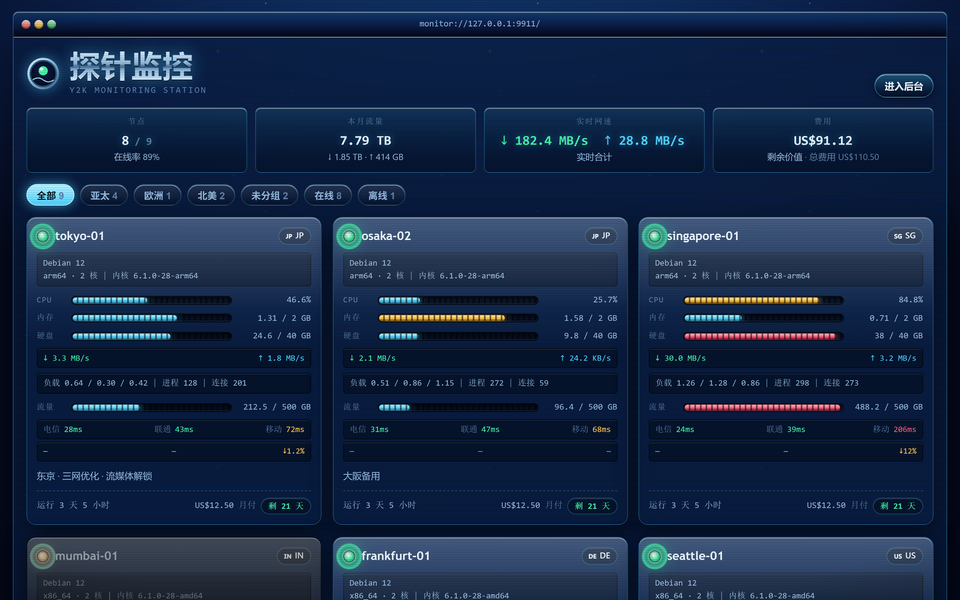
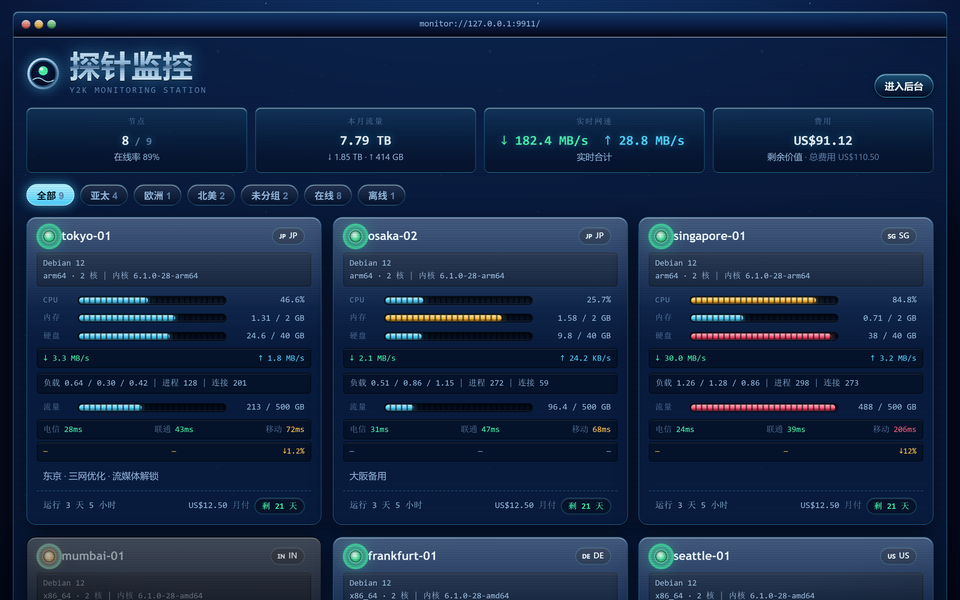
1.4.5：读数轨道改为随字体伸缩、卡片内统一两条竖线、修掉 NaN 读数
1) 平板下读数被截断

读数的轨道是写死的 92px。这个宽度按桌面字体算：--font-data 在 Windows 上是
Consolas（0.55em/字符），92px 装 15 个字符；平板上落到 SF Mono（0.6em），同样
92px 只装 13.9 个字符，于是桌面上刚好放得下的读数到平板上就少了尾巴。而真实
读数也比当初估计的长：内存以 MB 上报时是 "617.13 / 952.21 MB"——19 个字符。

- 轨道改用相对字体的单位：读数 15ch（ch 是一个字符在当前实际字体下的宽度，
  所以在任何等宽字体里都装 15 个字符），标签 3.6em（标签自己的 10px 下即
  36px）。网格列改为 max-content 配子元素上的显式宽度，单位解析发生在子元素
  自己的字体里。
- 读数加小数位阶梯（与 bytes() 同一套，按各自量级定小数位）：一对数字最长
  "1024 / 1024 MB" = 14 字符，15ch 在任何设备上都放得下。单位仍取自总量。

实测容量：桌面字体 rail 90.7px/6.05px = 15 字符；0.6em 等宽 rail 99px/6.60px
= 15 字符；0.6em 等宽 + 旧 92px = 13.9 字符（截断来源）。

2) 卡片内两条竖线

装在框里的行（↓/↑、负载、电信/联通/移动、丢包、系统信息）的文字被框的
padding 7 + border 1 内推 8px，没有框的行（CPU/内存/硬盘/流量、页眉、页脚）
贴着内容边缘，于是同一张卡出现两个左边界（46/54）与两个右边界。引入
--plate-inset 让无框行自带同样的内缩（.meter/.card-head/.card-foot/.remark）。
现在整张卡只有两条竖线：文字 54..343.7、框线 46..351.7。

3) 坏读数

disk_total = 0 的机器（无盘 NAT/容器）让 unitOf(0) 得到 -Infinity，
UNITS[-Infinity] 是 undefined，卡片打出 "NaN / NaN undefined"（19 字符，还
溢出轨道）；hub 不报 mem_used 时打出 "NaN / 256 GB"。现在总量不可用时退回
bytes() 写法（"0 B / 0 B"），单个数字缺失读作 "—"。

验证：用真实 hub 的 29 个节点复现并核对；5 个取最长形态的压测节点在
1400/1100/768 下截断数均为 0；规格行、丢包行、流量行、无溢出等既有不变量
复查无回归。

版本 1.4.5；preview.png 重新生成。

diff --git a/src/index.css b/src/index.css
@@ -28,11 +28,35 @@
      fixed rather than sized by their content: they are the two rails every bar
      is drawn between, so a reading that is four characters wide in one row and
      eighteen in the next must not move the rail. The reading is set in the data
-     font, so its width is the character count times a known advance -- fifteen
-     of them covers the longest figure the card writes ("500 / 1000 GB", and
-     "1310 / 500 GB" on a plan used past its quota). */
-  --meter-label: 36px;
-  --meter-val: 92px;
+     font, so its width is the character count times a known advance.
+
+     Both are expressed in the units of the text they hold, not in pixels,
+     because the pixel width of a character is the one thing the theme cannot
+     know: `--font-data` resolves to Consolas on Windows, Menlo on a Mac, SF Mono
+     on an iPhone or iPad and whatever the OEM ships on Android, and those
+     advances differ by more than ten percent. A 92px rail written for Consolas
+     holds fifteen characters; on a tablet, where SF Mono is a fifth wider, it
+     holds thirteen, and a reading that fits on a laptop came back from the
+     tablet with its unit cut off. `ch` is the advance of one character in
+     whatever font is actually being used, so the rail holds the same number of
+     characters everywhere -- which is what makes it a rail.
+
+     15ch is the widest a reading gets: a pair is at most four digits, a slash
+     and four more in the same unit (`1024 / 1024 MB`), which is fourteen
+     characters.
+
+     3.6em of the label's own 10px is 36px, the width the widest label needs
+     (不限量, three full-width characters plus the letter spacing). */
+  --meter-label: 3.6em;
+  --meter-val: 15ch;
+
+  /* How far a boxed row's text sits inside its box: the plate's own padding plus
+     its border. The unboxed rows (the meters, the head, the foot) add the same
+     inset to themselves, so every reading in a card starts and ends on the same
+     two vertical lines -- without it the rows inside plates sat 8px in from the
+     rows that are not, and the numbers down a card landed on two different
+     right-hand edges. */
+  --plate-inset: 8px;
 
   --dur: 180ms;
   --ease: cubic-bezier(0.2, 0.7, 0.3, 1);
@@ -1286,6 +1310,9 @@ a.btn {
   align-items: center;
   gap: 8px;
   min-width: 0;
+  /* The rows inside plates are inset by their own padding; the head is not in a
+     plate, so it carries the same inset itself. See `--plate-inset`. */
+  padding-inline: var(--plate-inset);
 }
 
 .card-head .name {
@@ -1479,7 +1506,7 @@ a.btn {
    whatever the font does to their widths. */
 .plate.pair {
   display: grid;
-  grid-template-columns: 1fr 1fr;
+  grid-template-columns: minmax(0, 1fr) minmax(0, 1fr);
   align-items: baseline;
 }
 
@@ -1556,6 +1583,7 @@ a.btn {
 
 .remark {
   margin: 0;
+  padding-inline: var(--plate-inset);
   font-size: 11.5px;
   color: var(--ink-dim);
   overflow-wrap: anywhere;
@@ -1574,16 +1602,26 @@ a.btn {
    every card of a row, starts and ends on the same two vertical lines. Sized by
    their content instead, the reading column would be five characters wide on the
    CPU row and eighteen on the disk row, and the three bars would visibly differ
-   in length, which is the one thing a row of bars is for. */
+   in length, which is the one thing a row of bars is for.
+
+   `max-content` against children that carry an explicit width: the width is
+   resolved on the child, in the child's own font, which is the only place those
+   units mean anything (`ch` on the grid container would be measured in the UI
+   font at the container's size, not in the data font at the reading's). All four
+   rows resolve to the same pair of widths, so the rails still line up. */
 .meter {
   display: grid;
-  grid-template-columns: var(--meter-label) minmax(0, 1fr) var(--meter-val);
+  grid-template-columns: max-content minmax(0, 1fr) max-content;
   align-items: center;
   gap: 7px;
+  /* The bare rows take the plate's inner inset, so a reading in a meter and a
+     reading in a plate above it sit on the same two lines. See `--plate-inset`. */
+  padding-inline: var(--plate-inset);
   font-size: 11px;
 }
 
 .meter .label {
+  width: var(--meter-label);
   font-family: var(--font-data);
   font-size: 10px;
   letter-spacing: 0.08em;
@@ -1592,6 +1630,7 @@ a.btn {
 }
 
 .meter .val {
+  width: var(--meter-val);
   font-family: var(--font-data);
   font-variant-numeric: tabular-nums;
   text-align: right;
@@ -1687,6 +1726,10 @@ a.btn {
   gap: 8px;
   flex-wrap: wrap;
   padding-top: 8px;
+  /* The rule above spans the card's content width, like the plates; the text on
+     it takes the same inset they do, so the foot's left and right ends land on
+     the same lines as every reading above it. */
+  padding-inline: var(--plate-inset);
   margin-top: auto;
   border-top: 1px dashed color-mix(in srgb, var(--accent) 24%, transparent);
   font-family: var(--font-data);

diff --git a/src/lib/format.ts b/src/lib/format.ts
@@ -38,8 +38,29 @@ export function pair(used: number, total: number): string {
  * lines up with the figures around it.
  */
 export function pairShort(used: number, total: number): string {
+  // A machine with no disk of its own -- a NAT box, a container -- reports zero
+  // for both figures, and `unitOf(0)` is -Infinity, so the unit resolved to
+  // `undefined` and the card printed "NaN / NaN undefined" across the rail. A
+  // hub may also leave the used figure out entirely; that is "not measured", not
+  // "nothing", so it reads as an em dash rather than as a zero.
+  if (!(total > 0) && !(used > 0)) return `${bytes(used)} / ${bytes(total)}`
   const i = total > 0 ? unitOf(total) : unitOf(used)
-  const f = (n: number) => `${Number((n / 1024 ** i).toFixed(i === 0 ? 0 : 2))}`
+  // Each figure keeps only the decimals its own magnitude earns -- the same
+  // ladder `bytes` uses, so a reading is formatted the same way wherever it
+  // appears. Two decimals of a gigabyte on a 952 GB disk are noise, and they
+  // were also the reason the reading did not fit: at three of them "617.13 /
+  // 952.21 MB" is nineteen characters, and in the monospace font a tablet
+  // resolves (wider than the desktop one) the unit fell off the end of the rail
+  // it has to sit in. Capped this way neither figure is longer than four
+  // characters plus its decimals, which the reading column holds on every
+  // device. Both keep the total's unit, so the pair still reads as one
+  // measurement.
+  const f = (n: number) => {
+    if (!Number.isFinite(n)) return "—"
+    const v = n / 1024 ** i
+    const digits = i === 0 ? 0 : v >= 100 ? 0 : v >= 10 ? 1 : 2
+    return `${Number(v.toFixed(digits))}`
+  }
   return `${f(used)} / ${f(total)} ${UNITS[i]}`
 }
 
